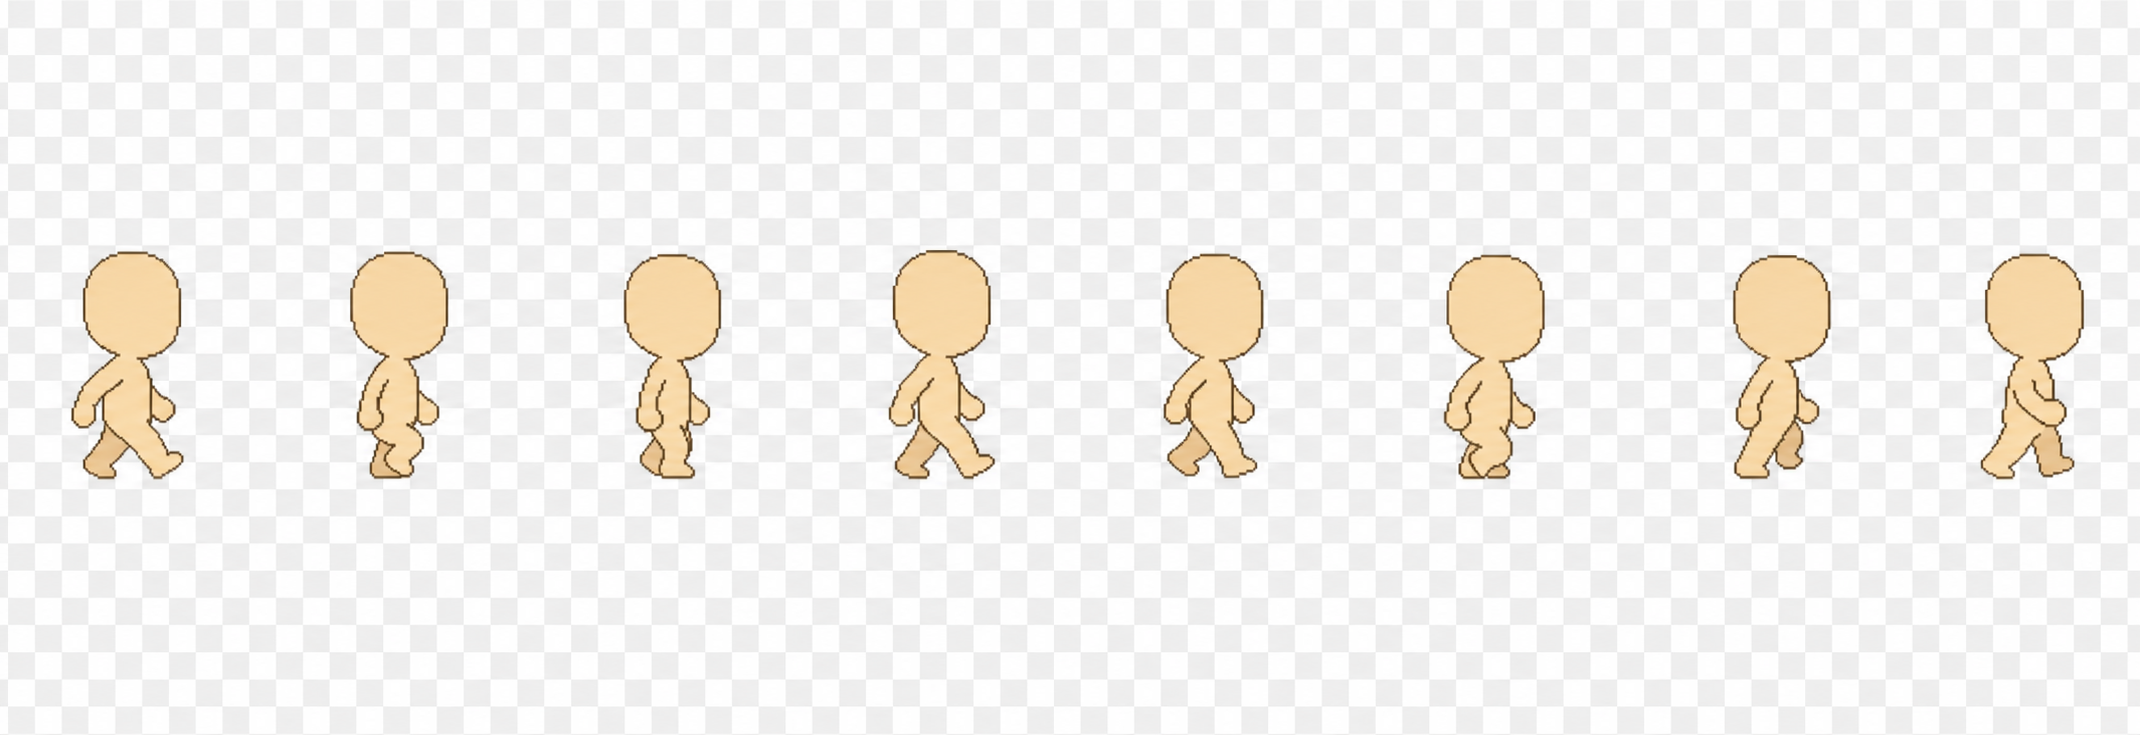
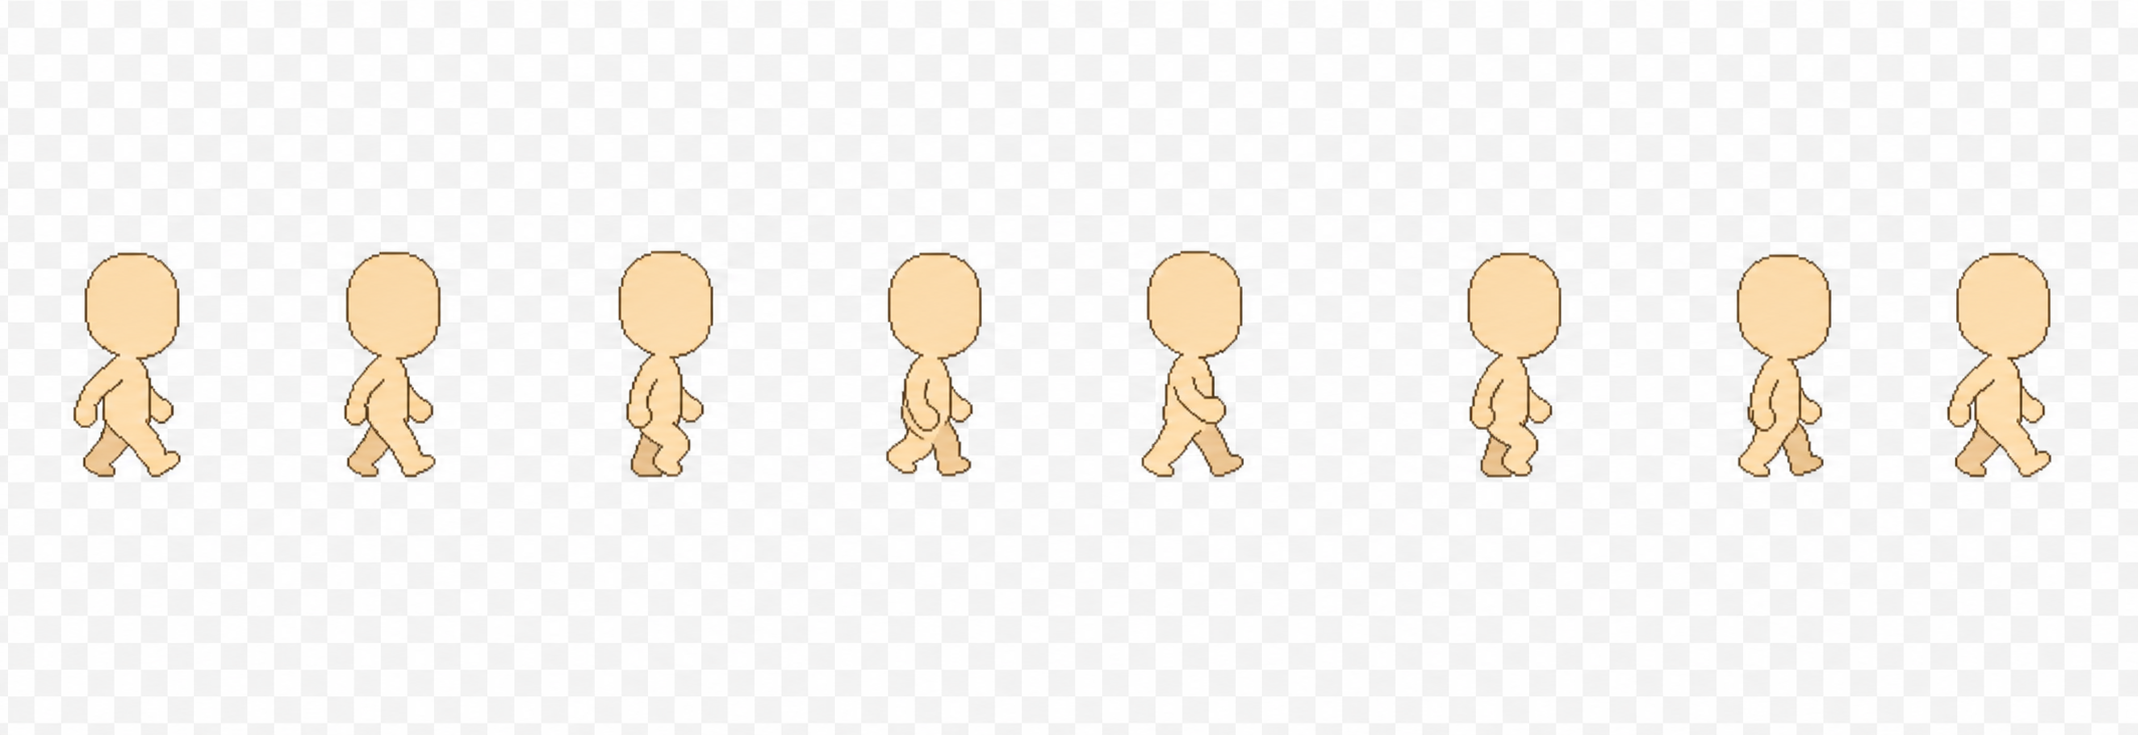
Adjust horizontal leg depth transitions

diff --git a/prototype/preview/index.html b/prototype/preview/index.html
@@ -45,7 +45,7 @@
 
   <section class="panel">
     <h2>重点：推荐基底横向腿部层次修正版</h2>
-    <p class="status">修正规则：第 4 帧开始切换前腿，第 4/5 帧不再固定同一条腿永远位于上层；每帧仍保留两条腿。</p>
+    <p class="status">修正规则：第 3 帧之后和第 6 帧之后切换前腿；每帧仍保留两条腿，不固定同一条腿永远位于上层。</p>
     <div class="grid">
       <figure><img src="assets/recommended_horizontal_layer_fix_source.png" alt="recommended horizontal base layer fix source"><figcaption>推荐基底的横向 8 帧原始修正版</figcaption></figure>
       <figure><img src="assets/recommended_horizontal_layer_fix_8frames.png" alt="normalized recommended horizontal layer fix 8 frames"><figcaption>归一化 64×64 横向 8 帧</figcaption></figure>

diff --git a/tools/build_recommended_horizontal_fix.py b/tools/build_recommended_horizontal_fix.py
@@ -114,9 +114,9 @@ def main() -> int:
         "cell_size": list(CELL_SIZE),
         "frames": FRAME_COUNT,
         "frame_order": ["contact_a", "down_a", "passing_a", "up_a", "contact_b", "down_b", "passing_b", "up_b"],
-        "foot_occlusion_policy": ["right_front", "right_front", "right_front", "left_front", "left_front", "left_front", "left_front", "right_front"],
+        "foot_occlusion_policy": ["right_front", "right_front", "right_front", "left_front", "left_front", "left_front", "right_front", "right_front"],
         "runtime_frames": [f"right_frame{index}.png" for index in range(FRAME_COUNT)],
-        "notes": "Review candidate generated from the recommended base. The fourth/fifth frame transition uses the opposite leg in front; this is not the older redraw adapter.",
+        "notes": "Review candidate generated from the recommended base. The front leg switches after frames 3 and 6; this is not the older redraw adapter.",
     }
     (OUTPUT / "manifest.json").write_text(json.dumps(manifest, indent=2), encoding="utf-8")
     print(f"RECOMMENDED_HORIZONTAL_FIX_PASS frames={FRAME_COUNT} output={OUTPUT.relative_to(ROOT)}")

diff --git a/tools/build_preview_assets.py b/tools/build_preview_assets.py
@@ -166,7 +166,7 @@ def main() -> int:
         "recommended_horizontal_layer_fix": {
             "source": "prototype/assets/characters/generated/recommended_base_horizontal_layer_fix_v1/right_source.png",
             "runtime": "prototype/assets/characters/generated/recommended_base_horizontal_layer_fix_v1/runtime",
-            "foot_occlusion_policy": ["right_front", "right_front", "right_front", "left_front", "left_front", "left_front", "left_front", "right_front"],
+            "foot_occlusion_policy": ["right_front", "right_front", "right_front", "left_front", "left_front", "left_front", "right_front", "right_front"],
             "status": "candidate_for_visual_review",
         },
         "excluded": "legacy bodies, RGS proxies, skeleton tests, old generated walk GIFs, and retired preview pages",

diff --git a/tools/validate_limb_occlusion.py b/tools/validate_limb_occlusion.py
@@ -15,7 +15,7 @@ EXPECTED = [
     "left_foot",
     "left_foot",
     "left_foot",
-    "left_foot",
+    "right_foot",
     "right_foot",
 ]
 
@@ -36,7 +36,7 @@ def main() -> int:
         actual.append("left_foot" if left > right else "right_foot")
     if actual != EXPECTED:
         raise SystemExit(f"z-order does not match policy: {actual!r}")
-    print("LIMB_OCCLUSION_VALIDATION_PASS frames=8 transition=frame4")
+    print("LIMB_OCCLUSION_VALIDATION_PASS frames=8 transitions=after_frame3_after_frame6")
     return 0
 
 

diff --git a/PROJECT.md b/PROJECT.md
@@ -58,8 +58,8 @@ Last updated: 2026-07-31.
 
 ### Current TODO and Incomplete Reasons
 
-- **Fix the recommended horizontal base leg depth.** The fourth/fifth transition
-  frames of the old base keep the wrong leg above the other. The later
+- **Fix the recommended horizontal base leg depth.** The transitions after
+  frames 3 and 6 of the old base keep the wrong leg above the other. The later
   `female_adventurer_reference_mannequin_v1_adapted` output is a redraw based on
   that base, so it inherits the same conceptual error and is not an acceptable
   replacement. A new `recommended_base_horizontal_layer_fix_v1` candidate now
